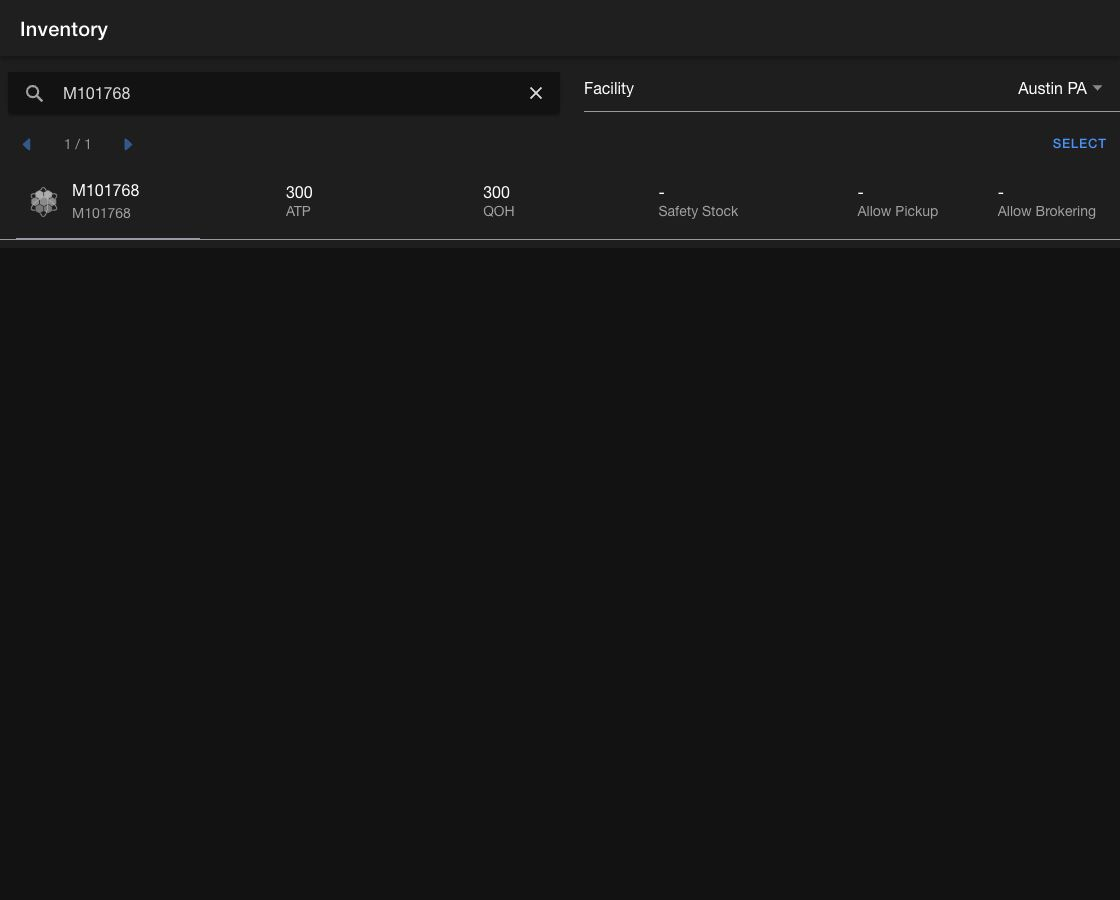
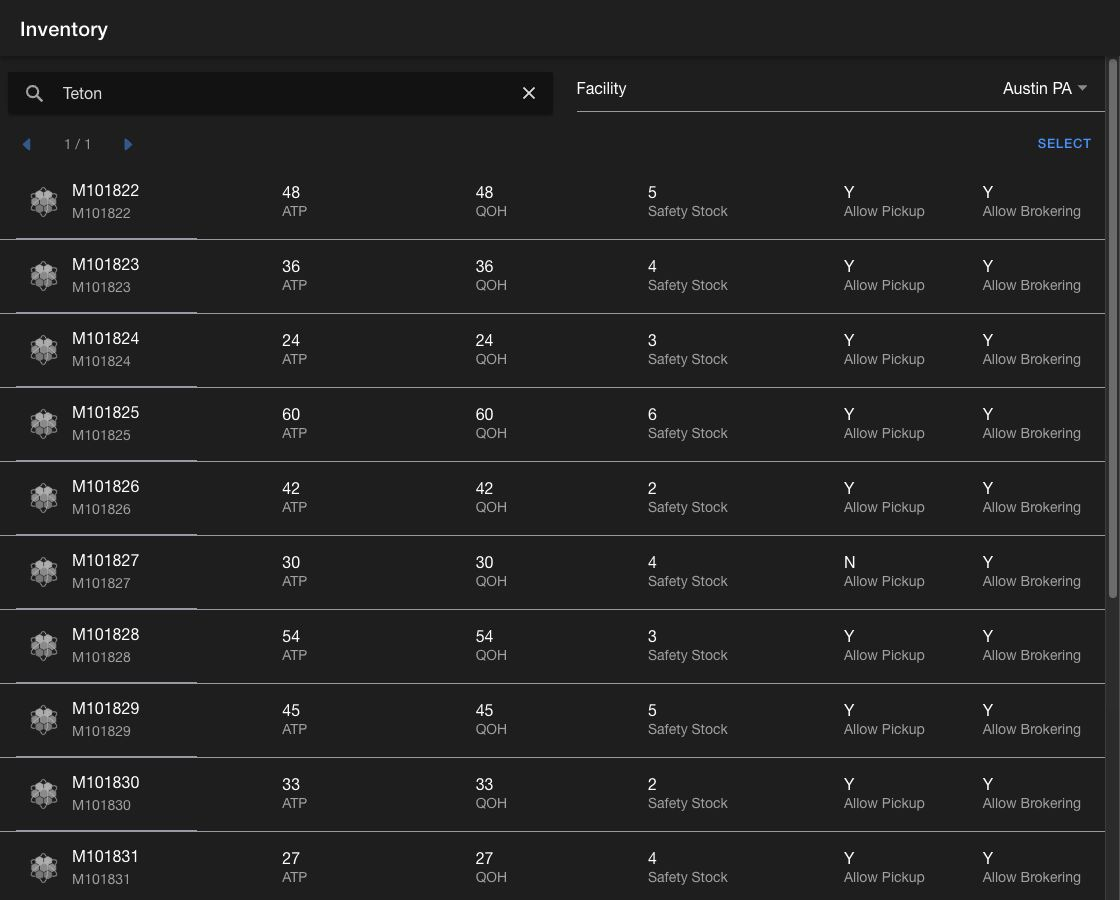
docs: improve inventory search screenshot

diff --git a/documents/retail-operations/orders/order-routing/sourcing/inventory.md b/documents/retail-operations/orders/order-routing/sourcing/inventory.md
@@ -19,7 +19,7 @@ The product row shows:
 | `Allow Pickup` | Whether the product can be picked up from the facility |
 | `Allow Brokering` | Whether the product can be considered for order routing at the facility |
 
-<figure><img src="../../../.gitbook/assets/order-routing-inventory.jpg" alt="Inventory page filtered to one product at a selected facility"><figcaption><p>Compare ATP, QOH, and sourcing settings for a product at one facility.</p></figcaption></figure>
+<figure><img src="../../../.gitbook/assets/order-routing-inventory.jpg" alt="Inventory page filtered to Teton products at the Austin PA facility, with ATP, QOH, safety stock, pickup, and brokering values"><figcaption><p>Search a product family and compare its inventory and sourcing settings at one facility.</p></figcaption></figure>
 
 ## Add missing product configuration
 

diff --git a/documents/retail-operations/orders/order-routing/README.md b/documents/retail-operations/orders/order-routing/README.md
@@ -22,7 +22,7 @@ Use the sourcing tools in the **Order Routing App** to configure inventory avail
 * [Product inventory](sourcing/inventory.md)
 * [Schedule sourcing rules](sourcing/schedule-rules.md)
 
-<figure><img src="../../.gitbook/assets/order-routing-inventory.jpg" alt="Inventory page in the Order Routing App showing a product's ATP, QOH, safety stock, pickup, and brokering settings"><figcaption><p>Review product inventory and sourcing settings in the Order Routing App.</p></figcaption></figure>
+<figure><img src="../../.gitbook/assets/order-routing-inventory.jpg" alt="Inventory page in the Order Routing App showing filtered products with ATP, QOH, safety stock, pickup, and brokering settings"><figcaption><p>Review product inventory and sourcing settings in the Order Routing App.</p></figcaption></figure>
 
 ## Route orders
 
